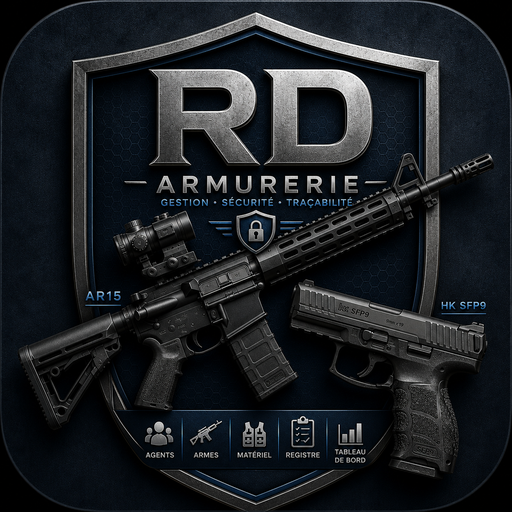
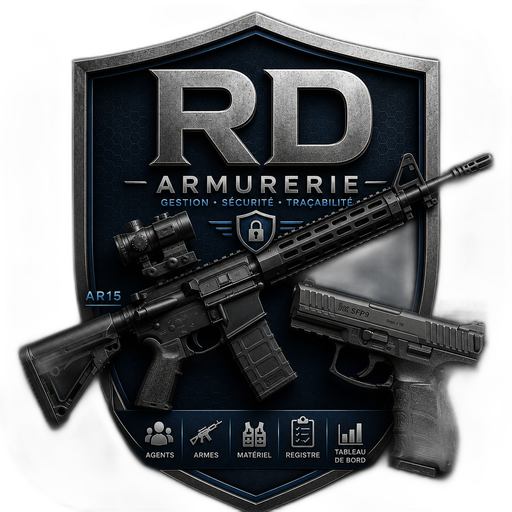
Add files via upload

diff --git a/index.html b/index.html
@@ -70,6 +70,8 @@ td{padding:7px 6px;border-bottom:1px solid var(--bordure);}
 .btn-action .ic-a{font-size:17px;}
 .hs-ligne{display:flex;justify-content:space-between;padding:7px 0;border-bottom:1px solid var(--bordure);font-size:13px;}
 .hs-ligne:last-child{border-bottom:none;}
+.resultat-clic{cursor:pointer;}
+.resultat-clic:active{background:var(--vert-bg);}
 .impression-seule{display:none;}
 @media print{
   header, nav, main{display:none !important;}
@@ -365,10 +367,10 @@ function listeSortiesEnCours(){
   const rows = [];
   mouvements.forEach(m=>{
     if(m.type==='Sortie'){
-      m.lignes.forEach(l=>{
+      m.lignes.forEach((l,li)=>{
         const rendu = (soldes[m.id] && soldes[m.id][l.materiel]) || 0;
         const solde = Number(l.quantite||0) - rendu;
-        if(solde>0) rows.push({date:m.date, unite:m.unite, nom:m.nom, materiel:l.materiel, quantite:solde, mouvementId:m.id});
+        if(solde>0) rows.push({date:m.date, unite:m.unite, nom:m.nom, materiel:l.materiel, quantite:solde, mouvementId:m.id, ligneIndex:li});
       });
     }
   });
@@ -411,7 +413,10 @@ function rechercheAccueil(){
     const hsMatch = materiels.filter(m => Number(m.hs||0) > 0);
     if(hsMatch.length){
       html += `<p style="font-size:12px;font-weight:600;color:var(--texte-att);margin:0 0 6px;">Matériel HS</p>`;
-      html += hsMatch.map(m=>`<div class="hs-ligne"><span>${m.materiel}</span><span style="color:var(--rouge);font-weight:600;">${m.hs}</span></div>`).join('');
+      html += hsMatch.map((m,idx)=>{
+        const i = materiels.indexOf(m);
+        return `<div class="hs-ligne resultat-clic" onclick="allerVersMateriel(${i})"><span>${m.materiel}</span><span style="color:var(--rouge);font-weight:600;">${m.hs} ›</span></div>`;
+      }).join('');
     }
   }
 
@@ -420,17 +425,38 @@ function rechercheAccueil(){
   );
   if(encours.length){
     html += `<p style="font-size:12px;font-weight:600;color:var(--texte-att);margin:14px 0 6px;">Sorties en cours</p>`;
-    html += encours.map(r=>`<div class="hs-ligne"><span>${r.nom} — ${r.materiel} (${r.unite})</span><span style="font-weight:600;">${r.quantite}</span></div>`).join('');
+    html += encours.map(r=>`<div class="hs-ligne resultat-clic" onclick="allerVersRegistreEdit('${r.mouvementId}',${r.ligneIndex})"><span>${r.nom} — ${r.materiel} (${r.unite})</span><span style="font-weight:600;">${r.quantite} ›</span></div>`).join('');
   }
 
   const matMatch = materiels.filter(m => m.materiel.toLowerCase().includes(q));
   if(matMatch.length){
     html += `<p style="font-size:12px;font-weight:600;color:var(--texte-att);margin:14px 0 6px;">Stock</p>`;
-    html += matMatch.map(m=>`<div class="hs-ligne"><span>${m.materiel} <span style="color:var(--texte-att);">(${m.categorie})</span></span><span style="font-weight:600;">${m.quantite}${m.hs>0?` <span style="color:var(--rouge);">− ${m.hs} HS</span>`:''}</span></div>`).join('');
+    html += matMatch.map(m=>{
+      const i = materiels.indexOf(m);
+      return `<div class="hs-ligne resultat-clic" onclick="allerVersMateriel(${i})"><span>${m.materiel} <span style="color:var(--texte-att);">(${m.categorie})</span></span><span style="font-weight:600;">${m.quantite}${m.hs>0?` <span style="color:var(--rouge);">− ${m.hs} HS</span>`:''} ›</span></div>`;
+    }).join('');
   }
 
   zone.style.display = 'block';
   zone.innerHTML = html || '<p class="vide" style="padding:4px 0;">Aucun résultat</p>';
+}
+function allerVersMateriel(index){
+  allerA('materiel');
+  const m = materiels[index];
+  if(!m) return;
+  document.getElementById('m-recherche').value = m.materiel;
+  rafraichirMateriel();
+  setTimeout(()=>{
+    const carte = document.querySelector('#mat-liste .mat-card');
+    if(carte){
+      carte.scrollIntoView({behavior:'smooth', block:'center'});
+      carte.style.outline = '2px solid var(--vert)';
+    }
+  }, 50);
+}
+function allerVersRegistreEdit(mouvementId, ligneIndex){
+  allerA('registre');
+  setTimeout(()=> modifierLigne(mouvementId, ligneIndex), 50);
 }
 
 /* ====================== SAISIE RAPIDE ====================== */
@@ -530,7 +556,7 @@ function rafraichirMateriel(){
   liste.innerHTML = materiels.map((m,i)=>({m,i})).filter(({m})=>{
     if(!q) return true;
     return m.materiel.toLowerCase().includes(q) || m.categorie.toLowerCase().includes(q);
-  }).map(({m,i})=>`
+  }).sort((a,b)=> a.m.materiel.localeCompare(b.m.materiel, 'fr', {sensitivity:'base'})).map(({m,i})=>`
     <div class="mat-card" data-idx="${i}">
       <div class="l1">
         <input type="text" value="${m.materiel}" onchange="modifierNomMateriel(${i},this)" onblur="modifierNomMateriel(${i},this)">